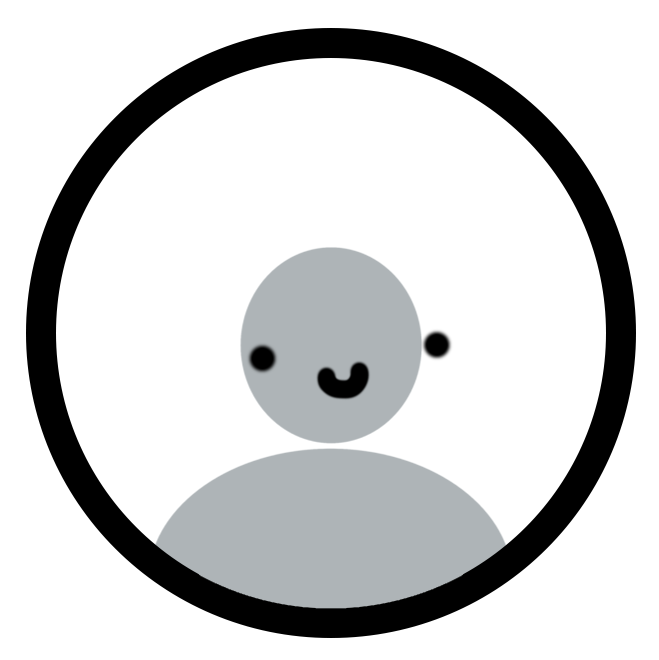
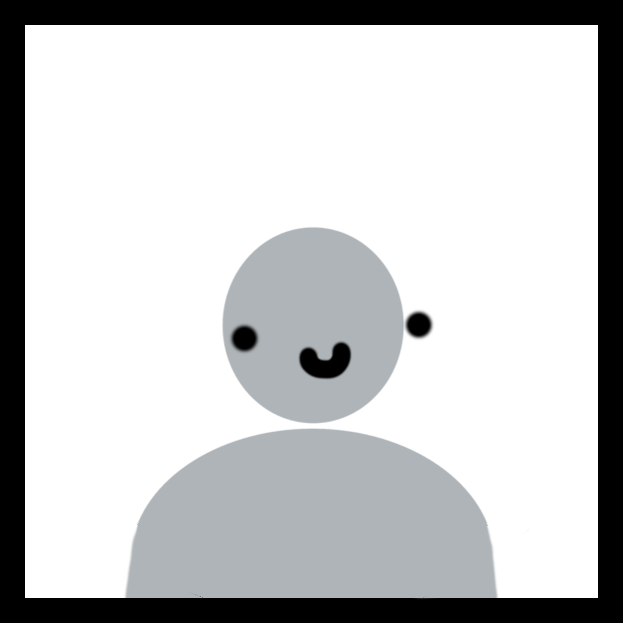
Chest popups, square profile pic, redid shirts

diff --git a/src/components/Customization.jsx b/src/components/Customization.jsx
@@ -1,12 +1,16 @@
-// Customization.js
-import React from 'react';
+import React, { useState } from 'react';
 import Row from 'react-bootstrap/Row';
 import Col from 'react-bootstrap/Col';
 import Slider from 'react-slick';
 import 'slick-carousel/slick/slick.css';
 import 'slick-carousel/slick/slick-theme.css';
+import Button from 'react-bootstrap/Button';
+import Modal from 'react-bootstrap/Modal';
 
 function Customization() {
+  const [modalShow, setModalShow] = useState(false);
+  const [remainingChests, setRemainingChests] = useState(5);
+
   const hatItems = [
     // Your hat items here
     { id: 1, name: 'Hat 1', imageUrl: 'images/hats/hat_01.png' },
@@ -78,6 +82,38 @@ function Customization() {
     prevArrow: <SamplePrevArrow />,
   };
 
+  const MyVerticallyCenteredModal = (props) => {
+    return (
+      <Modal
+        {...props}
+        size="lg"
+        aria-labelledby="contained-modal-title-vcenter"
+        centered
+      >
+        <Modal.Header closeButton>
+          <Modal.Title id="contained-modal-title-vcenter">
+            New Item!
+          </Modal.Title>
+        </Modal.Header>
+        <Modal.Body>
+          <h4>You unlocked a new hat!</h4>
+        </Modal.Body>
+        <Modal.Footer>
+          <Button onClick={props.onHide}>Close</Button>
+        </Modal.Footer>
+      </Modal>
+    );
+  };
+
+  const handleOpenChest = () => {
+    if (remainingChests > 0) {
+      // Update the remaining chests value and perform any other actions
+      setRemainingChests((prevChests) => prevChests - 1);
+      // Add logic for what happens when a chest is opened
+      setModalShow(true);
+    }
+  };
+
   return (
     <div>
       <Row style={{ height: '100vh' }}>
@@ -126,8 +162,18 @@ function Customization() {
 
         <Col xs={12} md={4} lg={4} style={{ height: '100%', backgroundColor: '#808080', paddingTop: '80px', textAlign: 'center' }}>
           <img src="images/blank_profile_icon.png" alt="Blank Profile Icon" style={{ width: '300px', height: 'auto', margin: 'auto' }} />
-          <h1 style={{paddingBottom: '75px'}}>John Smith</h1>
-          <button style={{ width: '300px', height: '75px' }}>Open Chest! (5 Remaining)</button>
+          <h1 style={{ paddingBottom: '75px' }}>John Smith</h1>
+          <button
+            style={{ width: '300px', height: '75px' }}
+            onClick={handleOpenChest}
+            disabled={remainingChests === 0}
+          >
+            Open Chest! ({remainingChests} Remaining)
+          </button>
+          <MyVerticallyCenteredModal
+            show={modalShow}
+            onHide={() => setModalShow(false)}
+          />
         </Col>
       </Row>
     </div>
